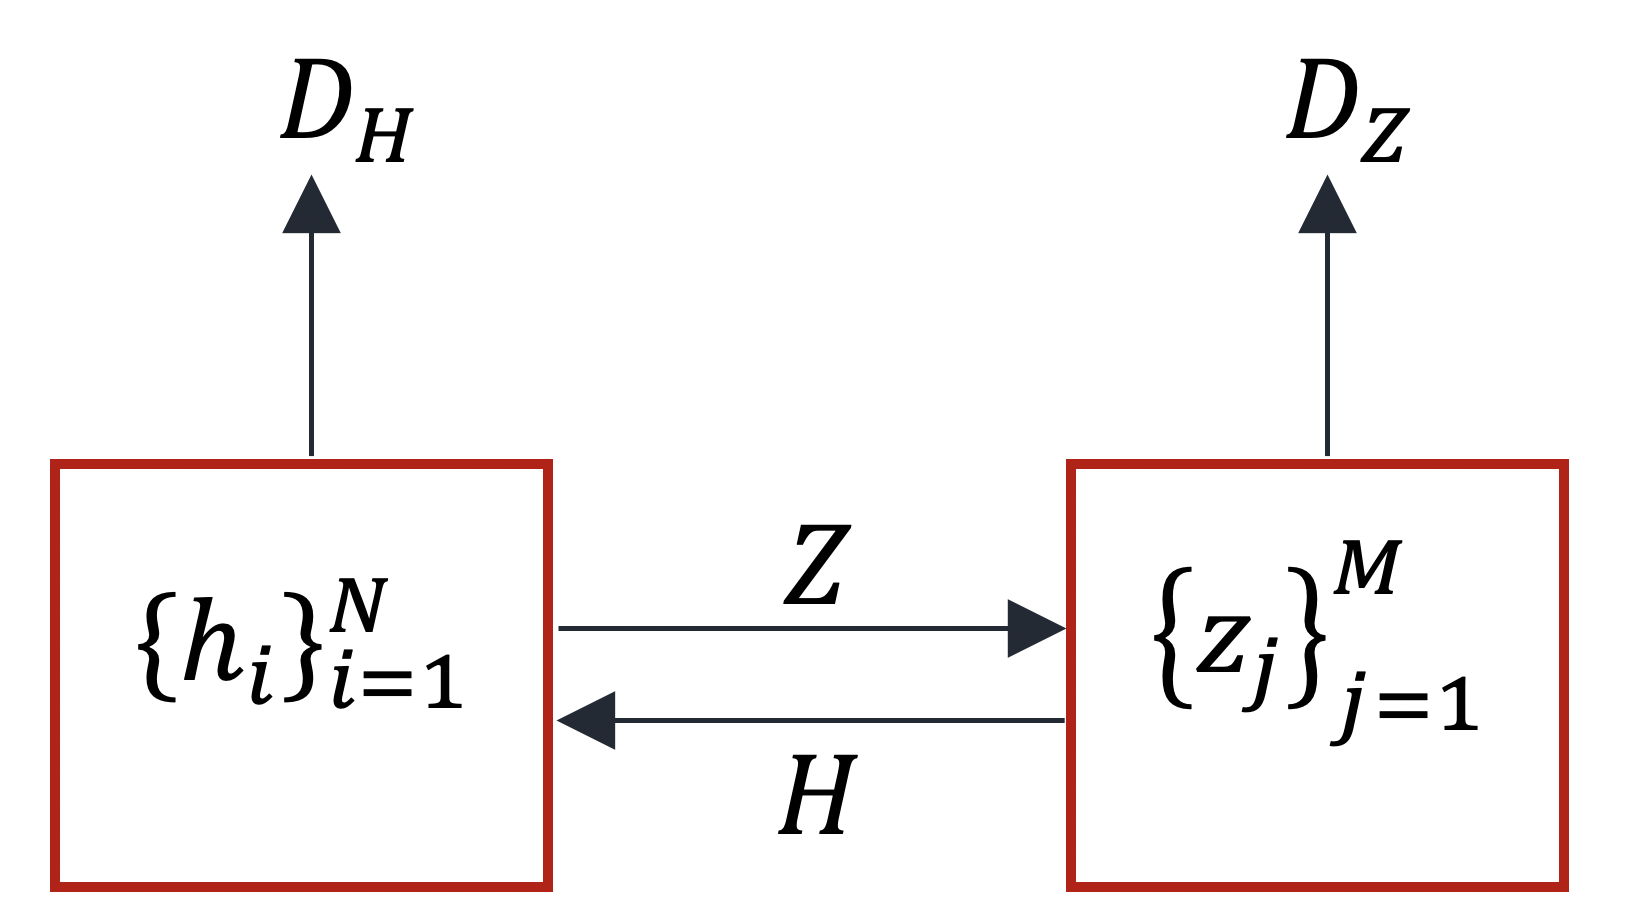
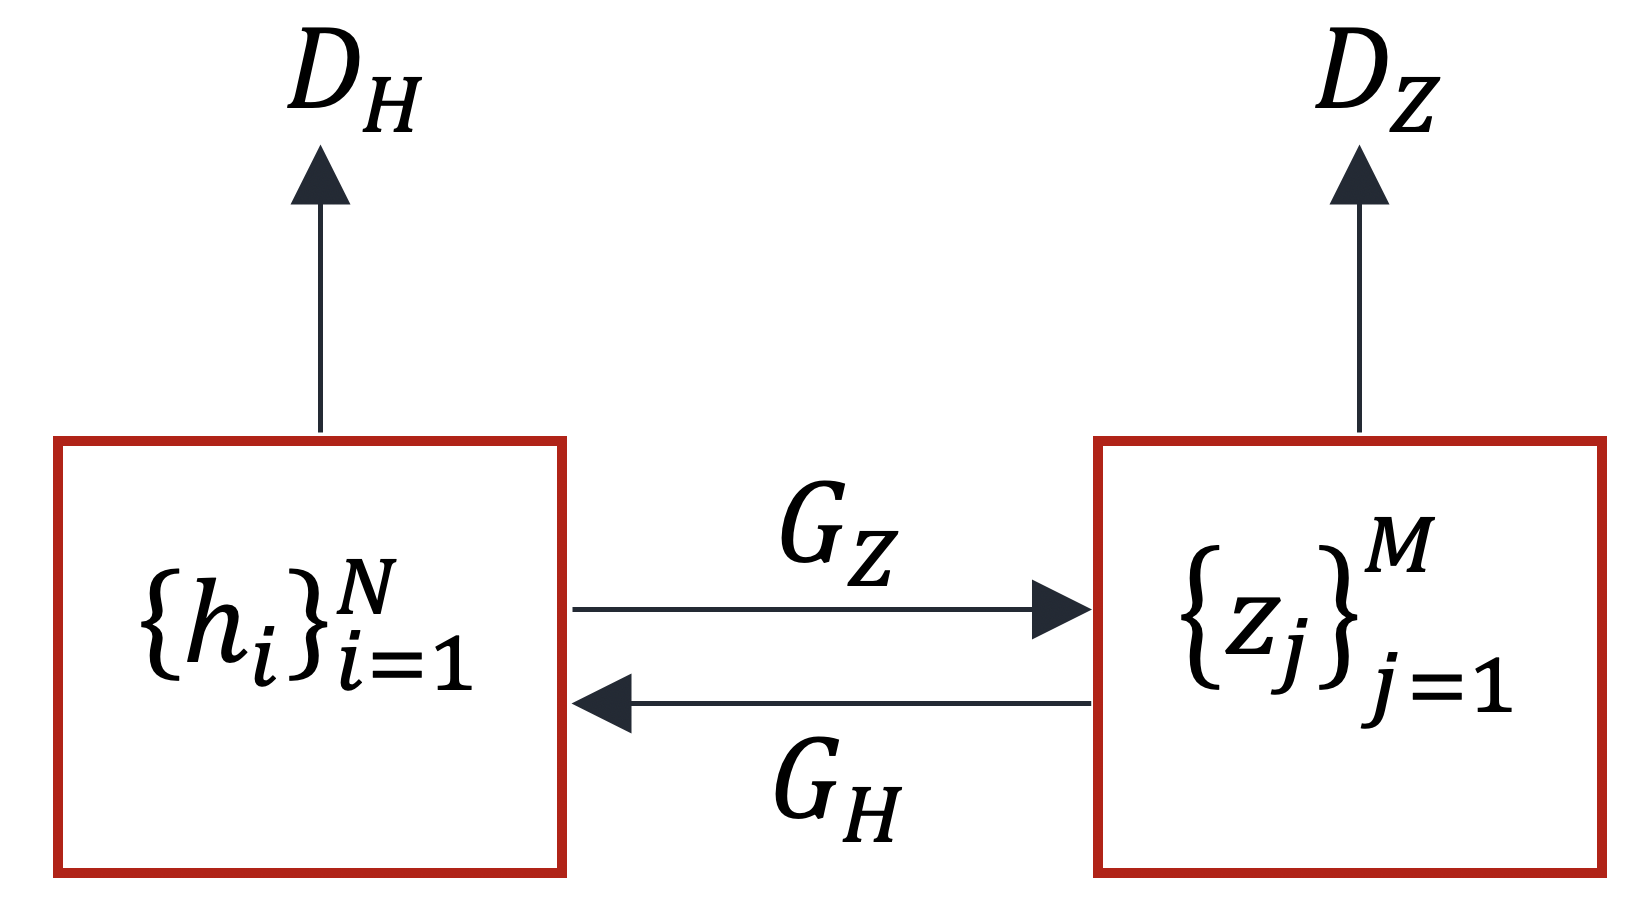
Updating README.md

Changed region(s): [[0.0309, 0.0303, 0.9903, 0.9697], [0.0619, 0.6061, 0.2785, 0.7879]]

diff --git a/README.md b/README.md
@@ -103,7 +103,7 @@ Translating images from one domain to another domain with CycleGAN
         Two Generators:
         <ul>
             <li>
-                H: Zebra → Horse
+                G<sub>H</sub>: Zebra → Horse
                 <ul>
                     <li>
                         This function translate a zebra image to a horse image.
@@ -111,7 +111,7 @@ Translating images from one domain to another domain with CycleGAN
                 </ul>
             </li>
             <li>
-                Z: Horse → Zebra
+                G<sub>Z</sub>: Horse → Zebra
                 <ul>
                     <li>
                         This function translate a horse image to a zebra image.
@@ -149,7 +149,66 @@ Translating images from one domain to another domain with CycleGAN
     </li>
 </ul>
 
+<table style="text-align: center margin-left: auto; margin-right: auto; text-align: center" border=0 align=center>
+    <tbody>
+        <tr>
+            <td>
+                <img src="./plots/CycleGAN.png" alt="CycleGAN Structure" style="width: 20rem"/>
+            </td>
+        </tr>
+    </tbody>
+</table>
+
 # Loss Function
 
 The loss function of CycleGAN is made up of several parts, which will be examined first in each of these parts
 and then obtain the final loss function.
+
+<ul>
+    <li>
+        <strong>Adversarial Loss:</strong>
+        <ul>
+            <li>
+                <strong>Hores Generator & Discriminator:</strong> Using this funciton, the error value of detecting whether the horse data is real or fake is calculated.
+            </li>
+        </ul>
+    </li>
+</ul>
+
+$ \ell _{GAN}(G_{H},D_{H},H,Z) = \mathbb{E}_{{h}\sim{p_{data}{(h)}}} {[\log{D_{H}{(h)}}]} + \mathbb{E}_{{z}\sim{p_{data}{(z)}}} {[\log ({1-D_{H}({G_{Z}(Z)})})]}$
+
+<ul style="list-style-type: none">
+    <li>
+        <ul>
+            <li>
+                <strong>Zebra Generator & Discriminator:</strong> this loss fuction calculates the of amount of error of misclassifying data from zebra domain as fake or real.
+            </li>
+        </ul>
+    </li>
+</ul>
+
+$ \ell _{GAN}(G_{Z},D_{Z},H,Z) = \mathbb{E}_{{z}\sim{p_{data}{(z)}}} {[\log{D_{Z}{(z)}}]} + \mathbb{E}_{{h}\sim{p_{data}{(h)}}} {[\log ({1-D_{Z}({G_{H}(H)})})]}$
+
+<ul>
+    <li>
+        <strong>Cycle Consistency Loss:</strong> This loss function tries to make the two functions G<sub>H</sub> and G<sub>Z</sub> to be inverse of each other.
+    </li>
+</ul>
+
+$ \ell _{cyc}(G_H, G_Z, H, Z) = \mathbb{E}_{{h}\sim{p_{data}{(h)}}} {( \| G_{H}(G_{Z}(H)) - h \|_{1} )} + \mathbb{E}_{{z}\sim{p_{data}{(z)}}} {( \| G_{Z}(G_{H}(Z)) - z \|_{1} )}$
+
+<ul>
+    <li>
+        <strong>Identity Loss:</strong> This loss function is used when the generated data should not lose its identity.
+    </li>
+</ul>
+
+$ \ell _{identity}(G_H, G_Z, H, Z) = \mathbb{E}_{{h}\sim{p_{data}{(h)}}} {( \| G_{H}(h) - h \|_{1} )} + \mathbb{E}_{{z}\sim{p_{data}{(z)}}} {( \| G_{Z}(z) - z \|_{1} )}$
+
+The total loss function is as follow:
+
+$ \ell (G_H, G_Z, D_H, D_Z, H, Z) = \ell _{GAN}(G_{H},D_{H},H,Z) + \ell _{GAN}(G_{Z},D_{Z},H,Z) + \lambda _{cyc} \ell _{cyc}(G_H, G_Z, H, Z) + \lambda _{identity} \ell _{identity}(G_H, G_Z, H, Z)$
+
+The two $ G_H $ and $ G_Z $ mappings are obtained as follows:
+
+$ G_H, G_Z= \underset{G_H, G_Z}{\arg\min}{ \underset{D_H, D_Z}{\max}{\ell (G_H, G_Z, D_H, D_Z, H, Z)} } $
